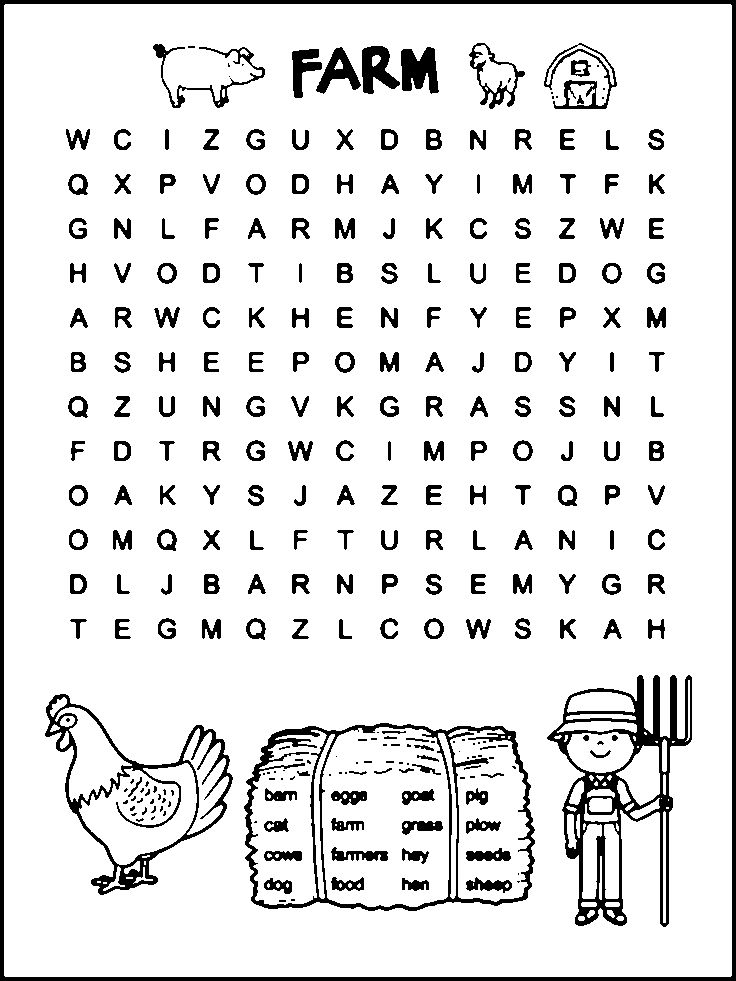
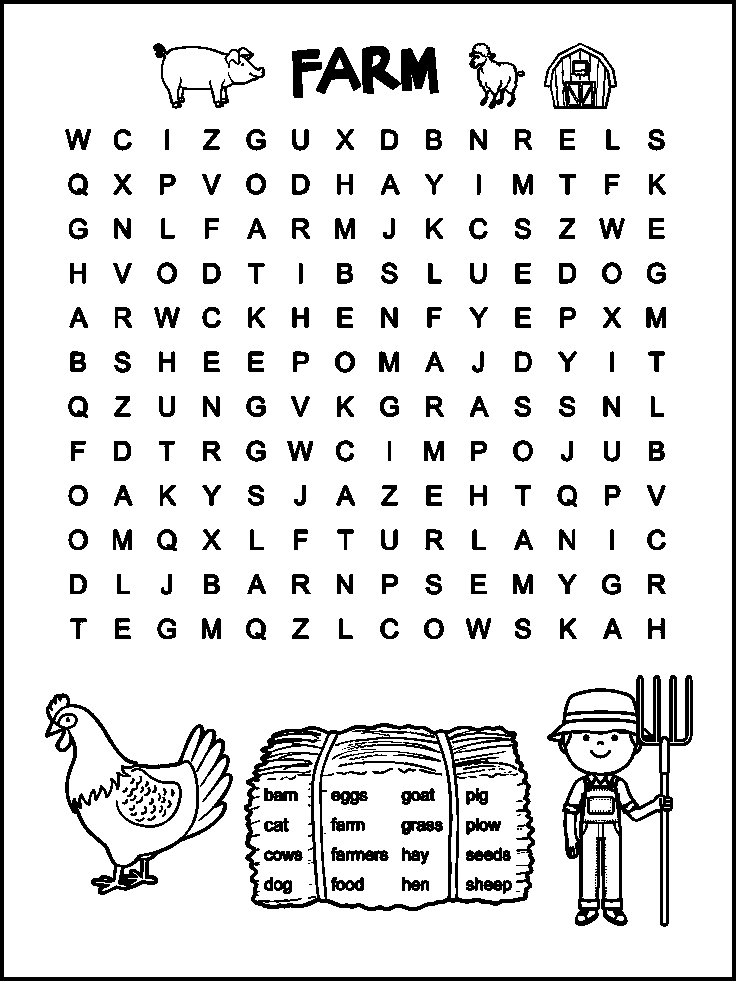
Preprocessing 1ere soutenance terminé

diff --git a/Pretreatment/pretreatment.c b/Pretreatment/pretreatment.c
@@ -17,7 +17,7 @@ void grayscale(SDL_Surface *surface) {
             Uint8 r, g, b;
             SDL_GetRGB(pixel, surface->format, &r, &g, &b);
 
-            Uint8 gris = (Uint8)(0.299 * r + 0.587 * g + 0.114 * b);
+            Uint8 gris = 0.299 * r + 0.587 * g + 0.114 * b;
             Uint32 pixelGris = SDL_MapRGB(surface->format, gris, gris, gris);
 
             pixels[y * width + x] = pixelGris;
@@ -48,23 +48,39 @@ void contrast(SDL_Surface *surface, float contrastFactor) {
     }
 }
 
-void binarize(SDL_Surface *surface, Uint8 threshold) {
-    Uint32* pixels = (Uint32*)surface->pixels;
-    int width = surface->w;
-    int height = surface->h;
+Uint8 luminance(SDL_Surface* image) {
+    Uint32 pixel;
+    Uint8 r, g, b, gray;
+    int sum = 0;
+    int count = 0;
 
-    for (int y = 0; y < height; y++) {
-        for (int x = 0; x < width; x++) {
-            Uint32 pixel = pixels[y * width + x];
-            Uint8 r, g, b;
-            SDL_GetRGB(pixel, surface->format, &r, &g, &b);
-            
-            Uint8 luminance = (Uint8)(0.299 * r + 0.587 * g + 0.114 * b);
+    for (int y = 0; y < image->h; y++) {
+        for (int x = 0; x < image->w; x++) {
+            pixel = ((Uint32*)image->pixels)[y * image->w + x];
+            SDL_GetRGB(pixel, image->format, &r, &g, &b);
+            gray = 0.299 * r + 0.587 * g + 0.114 * b;
+            sum += gray;
+            count++;
+        }
+    }
 
-            if (luminance >= threshold)
-                pixels[y * width + x] = SDL_MapRGB(surface->format, 255, 255, 255);
-            else
-                pixels[y * width + x] = SDL_MapRGB(surface->format, 0, 0, 0);
+    return sum / count;
+}
+
+void binarize_image(SDL_Surface* image, Uint8 threshold) {
+    Uint32 pixel;
+    Uint8 r, g, b, gray;
+
+    for (int y = 0; y < image->h; y++) {
+        for (int x = 0; x < image->w; x++) {
+            pixel = ((Uint32*)image->pixels)[y * image->w + x];
+            SDL_GetRGB(pixel, image->format, &r, &g, &b);
+            gray = 0.299 * r + 0.587 * g + 0.114 * b;
+
+            if (gray >= threshold)
+                ((Uint32*)image->pixels)[y * image->w + x] = SDL_MapRGB(image->format, 255, 255, 255);
+            else if (gray < threshold * 0.96)
+                ((Uint32*)image->pixels)[y * image->w + x] = SDL_MapRGB(image->format, 0, 0, 0);
         }
     }
 }
@@ -126,171 +142,25 @@ void gaussian(SDL_Surface *surface, int kernel_size) {
     free(kernel);
 }
 
-void median(SDL_Surface *surface, int kernel_size) {
-    int width = surface->w;
-    int height = surface->h;
-    Uint32 *pixels = (Uint32 *)surface->pixels;
-    Uint32 *output_pixels = (Uint32 *)malloc(width * height * sizeof(Uint32));
-    int half_kernel = kernel_size / 2;
-
-    for (int y = 0; y < height; y++) {
-        for (int x = 0; x < width; x++) {
-            Uint8 r[25], g[25], b[25];
-            int count = 0;
-
-            for (int dy = -half_kernel; dy <= half_kernel; dy++) {
-                for (int dx = -half_kernel; dx <= half_kernel; dx++) {
-                    int nx = x + dx;
-                    int ny = y + dy;
-
-                    if (nx >= 0 && nx < width && ny >= 0 && ny < height) {
-                        Uint32 pixel = pixels[ny * width + nx];
-                        SDL_GetRGB(pixel, surface->format, &r[count], &g[count], &b[count]);
-                        count++;
-                    }
-                }
-            }
-
-            for (int i = 0; i < count - 1; i++) {
-                for (int j = 0; j < count - i - 1; j++) {
-                    if (r[j] > r[j + 1]) {
-                        Uint8 temp_r = r[j];
-                        r[j] = r[j + 1];
-                        r[j + 1] = temp_r;
-                    }
-                    if (g[j] > g[j + 1]) {
-                        Uint8 temp_g = g[j];
-                        g[j] = g[j + 1];
-                        g[j + 1] = temp_g;
-                    }
-                    if (b[j] > b[j + 1]) {
-                        Uint8 temp_b = b[j];
-                        b[j] = b[j + 1];
-                        b[j + 1] = temp_b;
-                    }
-                }
-            }
-
-            int median_index = count / 2;
-            Uint32 new_pixel = SDL_MapRGB(surface->format, r[median_index], g[median_index], b[median_index]);
-            output_pixels[y * width + x] = new_pixel;
-        }
-    }
-
-    memcpy(pixels, output_pixels, width * height * sizeof(Uint32));
-    free(output_pixels);
-}
-
-typedef struct {
+double standard_deviation(SDL_Surface* image) {
     Uint8 r, g, b;
-    int count;
-} Color;
+    double sum = 0.0, sum_sq = 0.0;
+    int count = 0;
 
-Uint32 get_major_color(SDL_Surface *surface, int white) {
-    int width = surface->w;
-    int height = surface->h;
-    Uint32 *pixels = (Uint32 *)surface->pixels;
-
-    int max_colors = 256;
-    Color *colorFreqs = (Color *)malloc(max_colors * sizeof(Color));
-    int color_count = 0;
-
-    if (!colorFreqs) {
-        printf("Erreur d'allocation mémoire pour les fréquences de couleur\n");
-        return SDL_MapRGB(surface->format, 0, 0, 0);
-    }
-
-    for (int y = 0; y < height; y++) {
-        for (int x = 0; x < width; x++) {
-            Uint8 r, g, b;
-            SDL_GetRGB(pixels[y * width + x], surface->format, &r, &g, &b);
-
-            int found = 0;
-            for (int i = 0; i < color_count; i++) {
-                if (colorFreqs[i].r == r && colorFreqs[i].g == g && colorFreqs[i].b == b) {
-                    colorFreqs[i].count++;
-                    found = 1;
-                    break;
-                }
-            }
-
-            if (!found) {
-                if (color_count < max_colors) {
-                    colorFreqs[color_count].r = r;
-                    colorFreqs[color_count].g = g;
-                    colorFreqs[color_count].b = b;
-                    colorFreqs[color_count].count = 1;
-                    color_count++;
-                } else {
-                    printf("Attention : trop de couleurs uniques, certaines seront ignorées.\n");
-                }
-            }
+    for (int y = 0; y < image->h; y++) {
+        for (int x = 0; x < image->w; x++) {
+            Uint32 pixel = ((Uint32*)image->pixels)[y * image->w + x];
+            SDL_GetRGB(pixel, image->format, &r, &g, &b);
+            Uint8 gray = 0.299 * r + 0.587 * g + 0.114 * b;
+            sum += gray;
+            sum_sq += gray * gray;
+            count++;
         }
     }
 
-    int white_limit = 227;
-    int max_count = 0;
-    Uint8 dominant_r = 0, dominant_g = 0, dominant_b = 0;
-    for (int i = 0; i < color_count; i++) {
-        if (colorFreqs[i].count > max_count) {
-            if (white) {
-                max_count = colorFreqs[i].count;
-                dominant_r = colorFreqs[i].r;
-                dominant_g = colorFreqs[i].g;
-                dominant_b = colorFreqs[i].b;
-            }
-            else if (colorFreqs[i].r <= white_limit ||
-            colorFreqs[i].g <= white_limit ||
-            colorFreqs[i].b <= white_limit) {
-                max_count = colorFreqs[i].count;
-                dominant_r = colorFreqs[i].r;
-                dominant_g = colorFreqs[i].g;
-                dominant_b = colorFreqs[i].b;
-            }
-        }
-    }
-
-    free(colorFreqs);
-
-    return SDL_MapRGB(surface->format, dominant_r, dominant_g, dominant_b);
-}
-
-double variance(SDL_Surface *surface) {
-    int width = surface->w;
-    int height = surface->h;
-    Uint32 *pixels = (Uint32 *)surface->pixels;
-    int num_pixels = width * height;
-
-    double sum_luminance = 0.0;
-    double sum_squared_diff = 0.0;
-
-    for (int y = 0; y < height; y++) {
-        for (int x = 0; x < width; x++) {
-            Uint32 pixel = pixels[y * width + x];
-            Uint8 r, g, b;
-            SDL_GetRGB(pixel, surface->format, &r, &g, &b);
-
-            double luminance = 0.299 * r + 0.587 * g + 0.114 * b;
-            sum_luminance += luminance;
-        }
-    }
-
-    double mean_luminance = sum_luminance / num_pixels;
-
-    for (int y = 0; y < height; y++) {
-        for (int x = 0; x < width; x++) {
-            Uint32 pixel = pixels[y * width + x];
-            Uint8 r, g, b;
-            SDL_GetRGB(pixel, surface->format, &r, &g, &b);
-
-            double luminance = 0.299 * r + 0.587 * g + 0.114 * b;
-            double diff = luminance - mean_luminance;
-            sum_squared_diff += diff * diff;
-        }
-    }
-
-    double variance = sum_squared_diff / num_pixels;
-    return variance;
+    double mean = sum / count;
+    double variance = (sum_sq / count) - (mean * mean);
+    return sqrt(variance);
 }
 
 void ApplyPretreatment(char *filepath) {
@@ -324,28 +194,20 @@ void ApplyPretreatment(char *filepath) {
     }
 
     grayscale(surface);
-    
-    Uint32 major_color;
 
-    if (variance(surface) < 500) {
-        contrast(surface, 50);
-        median(surface, 3);
-        major_color = get_major_color(surface, 1);
-    }
-    else if (variance(surface) < 1600) {
-        contrast(surface, 90);
+    if (standard_deviation(surface) < 40) {
         gaussian(surface, 5);
-        major_color = get_major_color(surface, 0);
+        contrast(surface, 52);
+        binarize_image(surface, luminance(surface));
+        gaussian(surface, 5);
+        contrast(surface, 255);
     }
     else {
-        contrast(surface, 50);
-        major_color = get_major_color(surface, 1);    
+        binarize_image(surface, luminance(surface));
+        contrast(surface, 255);
     }
+    
 
-    Uint8 r, g, b;
-    SDL_GetRGB(major_color, surface->format, &r, &g, &b);
-    printf("r: %d\ng: %d\nb: %d\n", r, g, b);
-    binarize(surface, 0.299 * r + 0.587 * g + 0.114 * b);
 
     if (SDL_SaveBMP(surface, filepath) != 0) {
         printf("Image saving error: %s\n", SDL_GetError());
